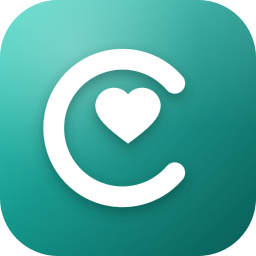
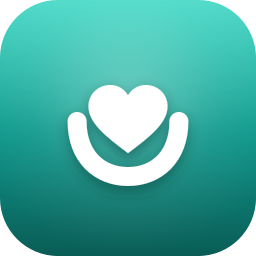
Redesign brand mark to a mirror-symmetric heart-in-cradle
The logo and favicon now share one strictly symmetric composition — vertical
teal gradient, centered glow and a white heart cradled in cupped hands — so
the header lockup, favicon, PWA icons and install badge all read as one mark
at every size.

🤖 Generated with Codebuff

diff --git a/src/components/Logo.tsx b/src/components/Logo.tsx
@@ -1,7 +1,9 @@
 import Link from "next/link";
 
 /**
- * Caregiver brand mark — teal gradient tile with the heart-in-“C” glyph.
+ * Caregiver brand mark — vertical teal gradient tile with a white heart
+ * cradled in cupped hands. Every element is mirror-symmetric about x=32,
+ * matching the favicon/icon set generated by .tmpsecrets/gen-icons.mjs.
  * Single source of truth for the logo (header, footers, auth screens).
  */
 export function LogoMark({ size = 36, className = "" }: { size?: number; className?: string }) {
@@ -15,24 +17,34 @@ export function LogoMark({ size = 36, className = "" }: { size?: number; classNa
       aria-label="Caregiver logo"
     >
       <defs>
-        <linearGradient id="cg-brand" x1="0" y1="0" x2="1" y2="1">
-          <stop offset="0" stopColor="#14b8a6" />
+        <linearGradient id="cg-brand" x1="0" y1="0" x2="0" y2="1">
+          <stop offset="0" stopColor="#2dd4bf" />
           <stop offset="0.55" stopColor="#0d9488" />
-          <stop offset="1" stopColor="#0f766e" />
+          <stop offset="1" stopColor="#0a5c56" />
         </linearGradient>
+        <radialGradient id="cg-glow" cx="0.5" cy="0.38" r="0.62">
+          <stop offset="0" stopColor="#ffffff" stopOpacity="0.3" />
+          <stop offset="0.6" stopColor="#ffffff" stopOpacity="0.07" />
+          <stop offset="1" stopColor="#ffffff" stopOpacity="0" />
+        </radialGradient>
       </defs>
       <rect width="64" height="64" rx="16" fill="url(#cg-brand)" />
-      <path
-        d="M45.6 19A20 20 0 1 0 45.6 45"
-        fill="none"
-        stroke="#ffffff"
-        strokeWidth="6"
-        strokeLinecap="round"
-      />
-      <path
-        d="M32 36.5c-6-4.4-9.5-7.4-9.5-11.2a5.4 5.4 0 0 1 9.5-3.1 5.4 5.4 0 0 1 9.5 3.1c0 3.8-3.5 6.8-9.5 11.2z"
-        fill="#ffffff"
-      />
+      <rect width="64" height="64" rx="16" fill="url(#cg-glow)" />
+      <g transform="translate(32 32) scale(0.86) translate(-32 -32)">
+        <g transform="translate(0 -1.5)">
+          <path
+            d="M32 40.8 C25.4 35.9 20.5 31.9 20.5 27.2 C20.5 23.6 23.4 21 26.8 21 C29.2 21 31 22.3 32 24 C33 22.3 34.8 21 37.2 21 C40.6 21 43.5 23.6 43.5 27.2 C43.5 31.9 38.6 35.9 32 40.8 Z"
+            fill="#ffffff"
+          />
+          <path
+            d="M17.2 31.6 C17.2 41.9 23.8 47.6 32 47.6 C40.2 47.6 46.8 41.9 46.8 31.6"
+            fill="none"
+            stroke="#ffffff"
+            strokeWidth="5.5"
+            strokeLinecap="round"
+          />
+        </g>
+      </g>
     </svg>
   );
 }
